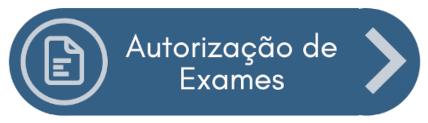
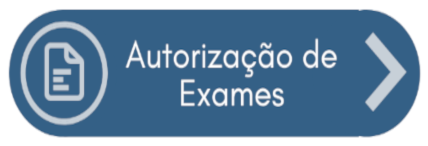
Add files via upload

diff --git a/totem/util/funcs.py b/totem/util/funcs.py
@@ -53,6 +53,31 @@ class func():
         self.root_horario.overrideredirect(True)
         self.root_horario.after(8000,self.root_horario.destroy)
 
+    def gerar_senha(self):
+        global senha, opc, atendimento, senhal
+        with connect_server() as conexao: #chama a função para conectar ao banco mysql
+            with conexao.cursor() as cursor:
+                #caso exista uma sequencia para a opção selecionada na consulta, gera uma senha sequencial.
+                if  cursor.execute(f'SELECT senha FROM {tabela} WHERE id IN (SELECT MAX(id) FROM {tabela} WHERE opcao = "{opc}" AND atendimento = "{atendimento}");')>0: #realiza consulta em banco
+                    resultado = str(cursor.fetchone()['senha']) #retorna resultado da consulta
+                    if atendimento == "preferencial": #Preferencial
+                        resultado = int(resultado[4:])+1 #converte o resutado, fatiando apenas os valores
+                    else: # Convencional
+                        resultado = int(resultado[3:])+1 #converte o resutado, fatiando apenas os valores
+
+                    resultado = str(resultado).rjust(3,'0') # adiciona 3 digitos ao resultado
+                    senha = senha + str(resultado) #seta senha
+                    sql = f"INSERT INTO {tabela} (opcao, atendimento, senha, data, status) VALUES ('{opc}','{atendimento}','{senha}','{data}', 'ESPERA')"  #seta intrução sql
+                
+                else: #caso não exista uma sequencia para a opção selecionada na consulta, gera uma nova senha no bloco else. 
+                    senha = senha + str('001') #seta senha
+                    sql = f"INSERT INTO {tabela} (opcao, atendimento, senha, data, status) VALUES ('{opc}','{atendimento}','{senha}','{data}', 'ESPERA')"  #seta intrução sql
+
+                cursor.execute(sql) #executa instrução sql
+                conexao.commit() #commit para o interprertador entender que deve executar a instrução
+                imprimir(senha, opc)
+                print(senha)
+
     ###Funções de Fechamento de cada tela###
     def fechar_conv(self): #Função fechamento de tela Conv. do TFD, AUT, FAA, FAB, FAE, PRE
         global senha, opc, atendimento, tela
@@ -139,7 +164,7 @@ class func():
 
         self.bt_voltar_mult = PhotoImage(file = bt[12]) #Chamando imagem 
         self.figura_bt_voltar_mult = Button(self.frameMult, image = self.bt_voltar_mult, relief=FLAT, bd = 0, command=self.rootMult.destroy) #Adicionando a imagem a um botão
-        self.figura_bt_voltar_mult.place(anchor='center', relx= 0.13, rely=0.08, relwidth= 0.17, relheight= 0.06) #Localizando o botão na tela
+        self.figura_bt_voltar_mult.place(anchor='center', relx= 0.13, rely=0.08, relwidth= 0.17, relheight= 0.075) #Localizando o botão na tela
     ###Função Escolha Preferencial ou Convencional PREMIR Consultas###
     def abrir_janela_Consultas(self): 
         self.rootConsultas = tk.Toplevel() #Variavel para atribuir tela principal
@@ -168,7 +193,7 @@ class func():
 
         self.bt_voltar_cons = PhotoImage(file = bt[12]) #Chamando imagem 
         self.figura_bt_voltar_cons = Button(self.frameConsultas, image = self.bt_voltar_cons, relief=FLAT, bd = 0, command= self.rootConsultas.destroy) #Adicionando a imagem a um botão
-        self.figura_bt_voltar_cons.place(anchor='center', relx= 0.13, rely=0.08, relwidth= 0.17, relheight= 0.06) #Localizando o botão na tela
+        self.figura_bt_voltar_cons.place(anchor='center', relx= 0.13, rely=0.08, relwidth= 0.17, relheight= 0.075) #Localizando o botão na tela
     ###Função Escolha Preferencial ou Convencional PREMIR Ultrassom###
     def abrir_janela_Ultrassom(self): 
         self.rootUltrassom = tk.Toplevel() #Variavel para atribuir tela principal
@@ -197,7 +222,7 @@ class func():
 
         self.bt_voltar_ultr = PhotoImage(file = bt[12]) #Chamando imagem 
         self.figura_voltar_ultr = Button(self.frameUltrassom, image = self.bt_voltar_ultr, relief=FLAT, bd = 0, command= self.rootUltrassom.destroy) #Adicionando a imagem a um botão
-        self.figura_voltar_ultr.place(anchor='center', relx= 0.13, rely=0.08, relwidth= 0.17, relheight= 0.06) #Localizando o botão na tela
+        self.figura_voltar_ultr.place(anchor='center', relx= 0.13, rely=0.08, relwidth= 0.17, relheight= 0.075) #Localizando o botão na tela
     ###Função Escolha Preferencial ou Convencional FARMACIA BASICA###
     def abrir_janela_AtencaoBasica(self): 
         self.root_AB = tk.Toplevel() #Variavel para atribuir tela principal
@@ -226,7 +251,7 @@ class func():
 
         self.btvoltar_imgAB = PhotoImage(file = bt[12]) #Imagem Botão Voltar 
         self.btvoltar_AB = Button(self.frame_AB, image = self.btvoltar_imgAB, relief=FLAT, bd = 0, command= self.root_AB.destroy) #Adicionando a imagem a um botão
-        self.btvoltar_AB.place(anchor='center', relx= 0.13, rely=0.08, relwidth= 0.17, relheight= 0.06) #Localizando o botão na tela
+        self.btvoltar_AB.place(anchor='center', relx= 0.13, rely=0.08, relwidth= 0.17, relheight= 0.075) #Localizando o botão na tela
     ###Função Escolha Preferencial ou Convencional FARMACIA ESTADO###
     def abrir_janela_Estado(self): 
         self.root_FE = tk.Toplevel() #Variavel para atribuir tela principal
@@ -255,7 +280,7 @@ class func():
 
         self.btvoltar_imgFE = PhotoImage(file = bt[12]) #Imagem Botão Voltar 
         self.btvoltar_FE = Button(self.frame_FE, image = self.btvoltar_imgFE, relief=FLAT, bd = 0, command= self.root_FE.destroy) #Adicionando a imagem a um botão
-        self.btvoltar_FE.place(anchor='center', relx= 0.13, rely=0.08, relwidth= 0.17, relheight= 0.06) #Localizando o botão na tela
+        self.btvoltar_FE.place(anchor='center', relx= 0.13, rely=0.08, relwidth= 0.17, relheight= 0.075) #Localizando o botão na tela
     ###Função Escolha Preferencial ou Convencional FARMACIA AUTO-CUSTO###
     def abrir_janela_AutoCusto(self): 
         self.root_FAC = tk.Toplevel() #Variavel para atribuir tela principal
@@ -284,7 +309,7 @@ class func():
 
         self.btvoltar_imgFAC = PhotoImage(file = bt[12]) #Imagem Botão Voltar 
         self.btvoltar_FAC = Button(self.frame_FAC, image = self.btvoltar_imgFAC, relief=FLAT, bd = 0, command= self.root_FAC.destroy) #Adicionando a imagem a um botão
-        self.btvoltar_FAC.place(anchor='center', relx= 0.13, rely=0.08, relwidth= 0.17, relheight= 0.06) #Localizando o botão na tela    
+        self.btvoltar_FAC.place(anchor='center', relx= 0.13, rely=0.08, relwidth= 0.17, relheight= 0.075) #Localizando o botão na tela    
     
     ###Função Escolha Preferencial ou Convencional AUTORIZAÇÃO DE EXAMES###
     def abrir_janela_AE(self): 
@@ -317,7 +342,7 @@ class func():
 
             self.btvoltar_imgAE = PhotoImage(file = bt[12]) #Imagem Botão Voltar 
             self.btvoltar_AE = Button(self.frameAE, image = self.btvoltar_imgAE, relief=FLAT, bd = 0, command= self.rootAE.destroy) #Adicionando a imagem a um botão
-            self.btvoltar_AE.place(anchor='center', relx= 0.13, rely=0.08, relwidth= 0.17, relheight= 0.06) #Localizando o botão na tela   
+            self.btvoltar_AE.place(anchor='center', relx= 0.13, rely=0.08, relwidth= 0.17, relheight= 0.075) #Localizando o botão na tela   
     ###Função para Tela Premir###
     def abrir_janela_Premir(self):
         if hora_atual >= "13:40":
@@ -363,7 +388,7 @@ class func():
 
             self.bt_voltar = PhotoImage(file = bt[12]) #Imagem botão Voltar
             self.btvoltar = Button(self.frame_premir, image = self.bt_voltar, relief=FLAT, bd = 0, command= self.root_premir.destroy) #Adicionando a imagem a um botão
-            self.btvoltar.place(anchor='center', relx= 0.13, rely=0.08, relwidth= 0.17, relheight= 0.06) #Localizando o botão na tela
+            self.btvoltar.place(anchor='center', relx= 0.13, rely=0.08, relwidth= 0.17, relheight= 0.075) #Localizando o botão na tela
 
             self.btconsultas2 = Button(self.frame_premir, text = f"•{esp[0]} \n•{esp[1]} \n•{esp[2]} \n•{esp[3]} \n•{esp[4]} \n•{esp[5]} \n•{esp[6]} \n•{esp[7]}", relief = FLAT, bd = 0, background = cores[4], activebackground = cores[4], command= self.abrir_janela_Consultas) #Adicionando texto a um botão
             self.btconsultas2.configure(font = fontexemplo0) #Configuração fonte padrão
@@ -437,7 +462,7 @@ class func():
             
             self.bt_img_voltar = PhotoImage(file = bt[12]) #Imagem botão Voltar 
             self.bt_voltar_farmacias = Button(self.frame_farmacia, image = self.bt_img_voltar, relief=FLAT, bd = 0, command= self.root_farmacia.destroy) #Adicionando a imagem a um botão
-            self.bt_voltar_farmacias.place(anchor='center', relx= 0.13, rely=0.08, relwidth= 0.17, relheight= 0.06) #Localizando o botão na tela
+            self.bt_voltar_farmacias.place(anchor='center', relx= 0.13, rely=0.08, relwidth= 0.17, relheight= 0.075) #Localizando o botão na tela
     ###Função para tela de espera de senha###
     def abrir_janela_espera(self):
         self.root_espera = tk.Toplevel()
@@ -496,3 +521,4 @@ class func():
         self.root_espera.attributes('-alpha', 1.0)
         self.root_espera.overrideredirect(True)
         self.root_espera.after(5000,self.root_espera.destroy)
+

diff --git a/totem/util/gerar_senha.py b/totem/util/gerar_senha.py
@@ -9,40 +9,38 @@ def mm2p(milimetros): #converte milimetros em pontos
     return milimetros/0.352777
 
 def imprimir(senha, local): 
-    try:
-        txt_senha = senha
-        txt_local = local   
-        data = datetime.now().strftime('%d/%m/%Y %H:%M')
-        texto_pdf = ['Atendimento','SENHA', txt_senha, 'LOCAL', txt_local, f'São francisco do Sul, {data}']
-        font_style = 'Helvetica'
-        font_size = [50,40,110,40,110,30]
-        eixo = 210
+    txt_senha = senha
+    txt_local = local   
+    data = datetime.now().strftime('%d/%m/%Y %H:%M')
+    texto_pdf = ['Atendimento','SENHA', txt_senha, 'LOCAL', txt_local, f'São francisco do Sul, {data}']
+    font_style = 'Helvetica'
+    font_size = [50,40,110,40,110,30]
+    eixo = 210
 
-        dir_app = os.getcwd()+ r'\totem\util\impressao'
-        # dir_app = str(os.path.dirname(__file__))
+    dir_app = os.getcwd()+ r'\util\impressao'
+    # dir_app = str(os.path.dirname(__file__))
 
-        print(dir_app)
+    print(dir_app)
 
-        senha_pdf = 'senha.pdf'
-        # inicializa canvas
-        cnv = canvas.Canvas(f'{dir_app}\{senha_pdf}', pagesize=A4)
+    senha_pdf = 'senha.pdf'
+    # inicializa canvas
+    cnv = canvas.Canvas(f'{dir_app}\{senha_pdf}', pagesize=A4)
 
-        # carrega imagem de cabeçalho
-        cnv.drawImage(f'{dir_app}\smssfs.jpeg' ,mm2p(0),mm2p(260),mm2p(210),mm2p(28)) 
-        # Gerar pdf senha
-        i = int(0)
-        for txt in texto_pdf:
-            cnv.setFont(font_style,font_size[i])
-            cnv.drawCentredString(mm2p(110),mm2p(eixo), txt)
-            eixo -= (35+i)
-            i += 1
-            
-        threading.Thread(target= cnv.save()).start
-        impressora = "ZDesigner_GC420d"
-        win32print.SetDefaultPrinter(impressora)
-        win32api.ShellExecute(0,"print",senha_pdf,None, dir_app,0)
-    except:
-        pass
+    # carrega imagem de cabeçalho
+    cnv.drawImage(f'{dir_app}\smssfs.jpeg' ,mm2p(0),mm2p(260),mm2p(210),mm2p(28)) 
+    # Gerar pdf senha
+    i = int(0)
+    for txt in texto_pdf:
+        cnv.setFont(font_style,font_size[i])
+        cnv.drawCentredString(mm2p(110),mm2p(eixo), txt)
+        eixo -= (35+i)
+        i += 1
+        
+    threading.Thread(target= cnv.save()).start
+    impressora = "ZDesigner GC420d"
+    # impressora = "Informática_SAMSUNG"
+    win32print.SetDefaultPrinter(impressora)
+    win32api.ShellExecute(0,"print",senha_pdf,None, dir_app,0)
 
 
 ###Função para conectar ao servidor###

diff --git a/totem/forms/form_master.py b/totem/forms/form_master.py
@@ -48,16 +48,17 @@ try:
             ###Botões###
             self.photo_BT_AUT_EXAMES = PhotoImage(file = bt[0]) #Imagem botão Autorização de Exames
             self.bt_Aut = Button(self.frame, image = self.photo_BT_AUT_EXAMES, bd = 0, relief=FLAT, command= self.abrir_janela_AE) #Adicionando a imagem a um botão
-            self.bt_Aut.place(anchor= 'center',relx= 0.25, rely=0.5, relwidth= 0.435, relheight= 0.15) #Localizando o botão na tela
+            self.bt_Aut.place(anchor= 'center',relx= 0.25, rely=0.5, relwidth= 0.435, relheight= 0.19) #Localizando o botão na tela
 
             self.photo_bt_PREMIR = PhotoImage(file = bt[5]) #Imagem botão PREMIR    
             self.bt_premir = Button(self.frame, image = self.photo_bt_PREMIR, bd = 0, relief=FLAT, command= self.abrir_janela_Premir) #Adicionando a imagem a um botão
-            self.bt_premir.place(anchor= 'center',relx= 0.75, rely=0.5, relwidth= 0.435, relheight= 0.15) #Localizando o botão na tela
+            self.bt_premir.place(anchor= 'center',relx= 0.75, rely=0.5, relwidth= 0.435, relheight= 0.19) #Localizando o botão na tela
 
             self.photo_bt_FARMARCIA = PhotoImage(file = bt[1]) #Imagem botão Farmacia
             self.bt_F = Button(self.frame, image= self.photo_bt_FARMARCIA, relief=FLAT, bd= 0, command= self.abrir_janela_Farmacias) #Adicionando a imagem a um botão
-            self.bt_F.place(anchor= 'center',relx= 0.5, rely=0.8, relwidth= 0.435, relheight= 0.15) #Localizando o botão na tela
-except:
+            self.bt_F.place(anchor= 'center',relx= 0.5, rely=0.8, relwidth= 0.435, relheight= 0.19) #Localizando o botão na tela
+except Exception as e:
+    print(e)
     pass
 
 def on_closing():

diff --git a/totem/util/parametros.py b/totem/util/parametros.py
@@ -1,4 +1,6 @@
-from util.modulos import *
+# from util.modulos import *
+import tkinter as tk
+from datetime import datetime                   
 
 root = tk.Tk()                                              #Variavel Princiapal das telas 
 w, h = root.winfo_screenwidth(), root.winfo_screenheight()  #Variavel que pega as medidas da tela como referência

diff --git a/totem/util/listas.py b/totem/util/listas.py
@@ -35,7 +35,7 @@ atend = [
     ]
 
 ###Definindo variavel com o nome do local fonte dos arquivos###
-get_dir = os.getcwd()+ r'\totem\imagens'
+get_dir = os.getcwd()+ r'\imagens'
 
 ###Definindo Variaveis para Botões e seus diretorios###
 

diff --git a/totem/util/models.py b/totem/util/models.py
@@ -1,5 +1,4 @@
 from contextlib import contextmanager
-from turtle import pensize
 import pymysql.cursors
 from datetime import date, datetime, timedelta     
 #Importanto funções para trabalha em banco de dados 
